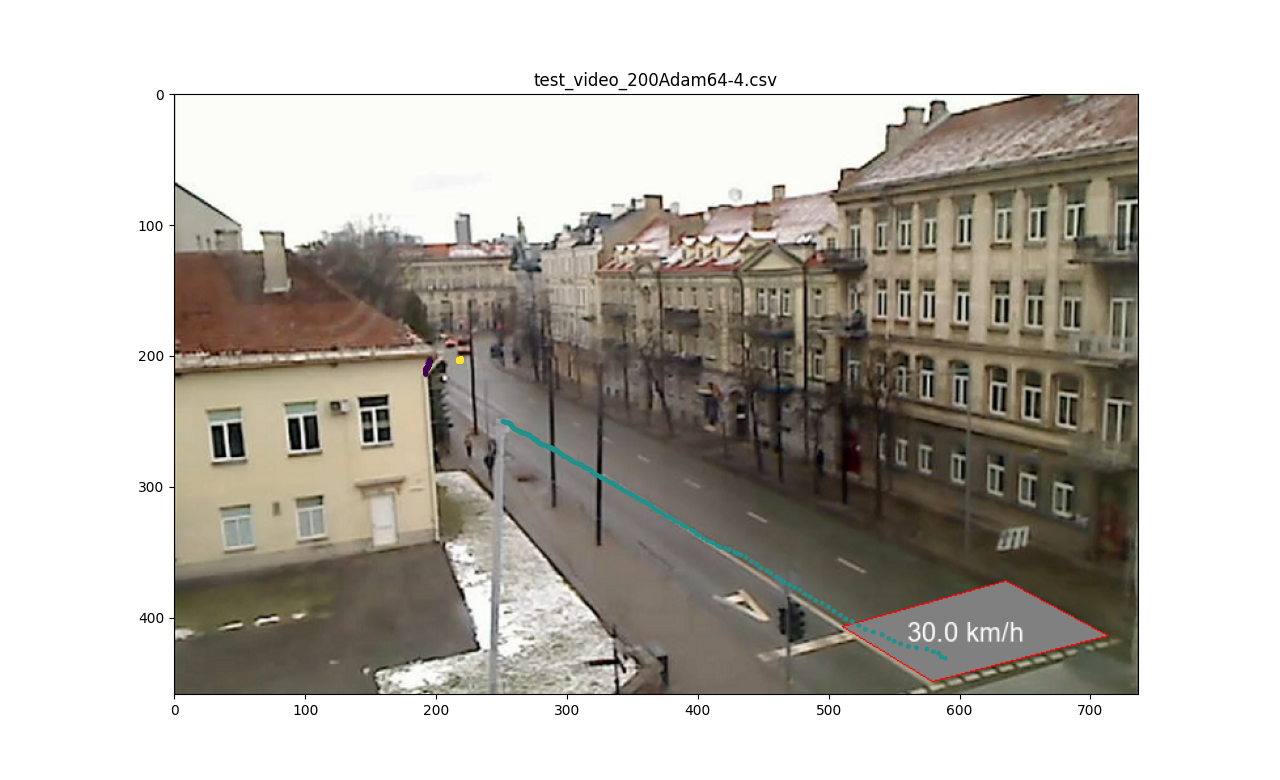
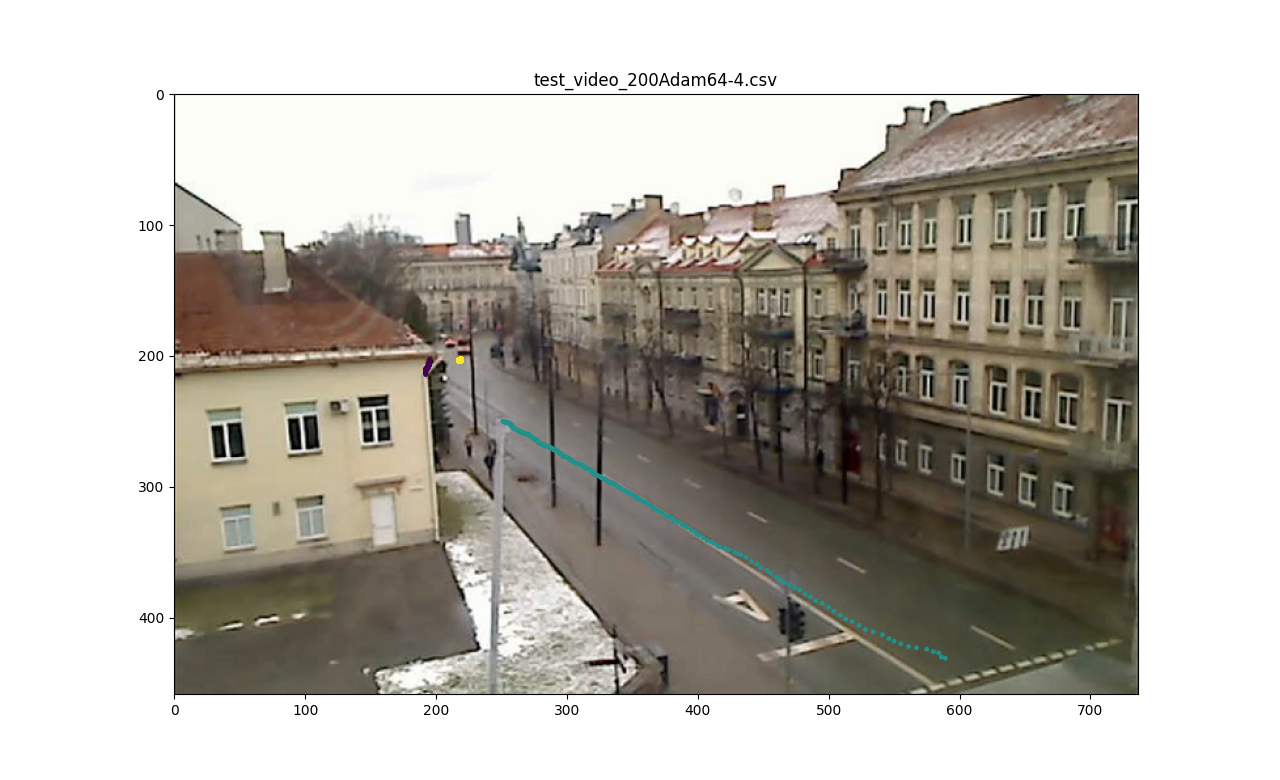
new tracks and speed ploting

Changed region(s): [[0.6562, 0.7385, 0.875, 0.8923]]

diff --git a/det_plot_file_speed.py b/det_plot_file_speed.py
@@ -6,11 +6,13 @@ from PIL import Image, ImageDraw, ImageFont
 from shapely.geometry import Point, Polygon
 
 # Data parameteres
+objectId = 2 # 0 - all objects. For specific object, change 0 to objectid
 everynth = 1 # show every other point (f.e. 3 - show every 3rd point)
-objectId = 2 # all objects. For specific object, change 0 to objectid 
 
 # Prerecorded tracking results for ploting
-track_file = 'test_video2_200Adam64-4.csv'
+#track_file = 'test_video_200Adam64-4.csv'
+#track_file = 'test_video2_200Adam64-4.csv'
+track_file = 'test_video3_200Adam64-4.csv'
 
 # Read CSV and return pandas df
 def tracks(everynth = 1):
@@ -44,11 +46,6 @@ def tracks(everynth = 1):
     df['timestamp'] = df['timestamp'].astype(float)
     return df
 
-# # Check dataframe
-# df = tracks()
-# rows_by_objectid = df[df['id'] == objectId]
-# print(rows_by_objectid)
-
 # Define a color mapping function
 def color_map(value):
     if value < 128:
@@ -58,7 +55,7 @@ def color_map(value):
 
 # Plot types
 # Note: plot images are saved into "_data/images" folder. Image name is same as track_file
-def scatter_3d(df, track_file):
+def scatter_3d(df):
     fig = plt.figure()
     ax = plt.axes(projection='3d')
 
@@ -73,7 +70,30 @@ def scatter_3d(df, track_file):
     ax.set_zlabel ('timestamp')
     ax.scatter(x, y, z, c=obj_id)
 
-def scatter(df, x, y, track_file):
+def scatter(df):
+    img = Image.open('_data/_images/scene.png')
+    draw = ImageDraw.Draw(img)
+
+    # Calculate the new size based on the percentage
+    percent = 100
+    width, height = img.size
+    new_width = int(width * percent / 100)
+    new_height = int(height * percent / 100)
+    print(new_width, new_height)
+    # Resize the image
+    img = img.resize((new_width, new_height))
+
+    # variables in the dataset
+    f, ax = plt.subplots(figsize=(12.8, 7.8))
+    ax.set_title(track_file)
+
+    ax.imshow(img)
+
+    ax.scatter(df['x'], df['y'], c=df['id'], s=6)
+    # Save the plot to a file
+    plt.savefig(f'_data/_images/{track_file}.png')
+
+def scatter_speed(df):
     img = Image.open('_data/_images/scene.png')
     draw = ImageDraw.Draw(img)
     width, height = img.size
@@ -131,8 +151,14 @@ def draw_plots():
     # Data Frame
     df = tracks(everynth)
 
-    scatter_3d(df, track_file)
-    scatter(df, 'x', 'y', track_file)
+    # Calculate speed if specific object selected
+    if objectId != 0:
+        df = df[df['id'] == objectId]
+        scatter_speed(df)
+    else:
+        scatter(df)
+    
+    scatter_3d(df)
 
     plt.show()
 
